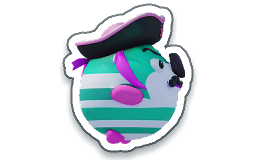
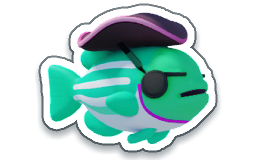
V1.1.3: a brand-new Pirate Fish, on bones
- The round ball is replaced by a real fish with the same pirate details (owner's pick of 3
  generated candidates), rigged with its tricorn rigid on the head
- New Anomaly / Shiny textures (the old hues) and 4 stickers, uploaded after the owner's look;
  rig uploaded as the group; theme.ts FISH_ICONS and variant-spec.json updated
- Fish asset note: sticker sheet camera, tall fish scaling, staging a model swap

diff --git a/src/client/ui/theme.ts b/src/client/ui/theme.ts
@@ -157,10 +157,10 @@ export const FISH_ICONS: Record<FishType, Record<FishVariant, string>> = {
 		Shiny: "rbxassetid://109331093351123",
 	},
 	PirateFish: {
-		Normal: "rbxassetid://140042928133697",
-		Anomaly: "rbxassetid://110288096561899",
-		Ghost: "rbxassetid://134728004078355",
-		Shiny: "rbxassetid://107412512620557",
+		Normal: "rbxassetid://104113182127697",
+		Anomaly: "rbxassetid://87343122073363",
+		Ghost: "rbxassetid://89533035670236",
+		Shiny: "rbxassetid://75278429179620",
 	},
 	ImperialDiscus: {
 		Normal: "rbxassetid://139654199951383",

diff --git a/src/shared/version.ts b/src/shared/version.ts
@@ -1,5 +1,5 @@
 /** The game's patch, the top one of RELEASE_NOTES.md: bump it with every new patch (CLAUDE.md §0b). */
-export const GAME_VERSION = "1.1.2";
+export const GAME_VERSION = "1.1.3";
 
 /** Shown in a corner of the screen (App): "V1.0.0". */
 export function getVersionLabel(): string {

diff --git a/ROADMAP_V1.1.md b/ROADMAP_V1.1.md
@@ -3,7 +3,7 @@
 > The animation revamp: every fish, companion, event guest and NPC moves through a **skeleton made in Blender**
 > instead of the EditableMesh deformation of V1. It starts **once V1 is complete** (the owner's calibration with real players done). Tick the
 > boxes as tasks ship, and move what a step ships into `PROJECT_CONTEXT.md` / `RELEASE_NOTES.md` as usual.
-> Last updated: 2026-11-06 (A1–A4 done; A5.1–A5.4: batches 1–2 on bones, V1.1.2; A5.4b: a new Pirate Fish).
+> Last updated: 2026-11-06 (A1–A4 done; A5.1–A5.4b: batches 1–2 on bones and a new Pirate Fish, V1.1.3; next A5.5).
 
 **V1.1 in one line**: Blender joins the toolchain (Windows and Mac) **as an MCP server**, like Roblox Studio and
 FigCraft, so the agent drives it itself; a script rigs every model by itself, the game
@@ -183,26 +183,22 @@ blender-pipeline.
       whiskers (design/rigs/<Fish>.json; checked at 3× the bend, no tearing).
 - [x] **A5.4 — Batch 2 ship** (2026-11-06): Silver Angelfish, Imperial Discus, French Fish, Catfish (4 uploads, all
       Approved), swapped and playtested; **V1.1.2**.
-- [ ] **A5.4b — A new Pirate Fish** (2026-11-06: owner picked candidate A of 3 (generate_mesh, owner's account: A
-      80403505636985 kept, B 139716735464675 and C 88927581992980 dropped, archivable); built at 5.4 studs long in
-      `ServerStorage._V11Staging.PirateFish_New` (untagged: the live template keeps the old look until the swap, its old
-      variant textures don't fit the new UVs); rigged (`design/rigs/PirateFish.json`: fin_top false, rigid_top for the
-      tricorn); Anomaly / Shiny recoloured with the old angles (tools/textures/out, not uploaded); previews
-      `pirate-fish-new-swim.gif`, `pirate-fish-new-variants.png`. **Next**: owner's go, stickers, uploads, swap) (owner, 2026-11-06: never liked the old model, its swim looked odd): a 100 % new
-      model, then straight onto bones. Pirates are a risky theme (CLAUDE.md §7): written brief approved by the owner
-      first, nothing generated before. Then the species recipe (agent note content-recipes): ≤ 3 generate_mesh
-      candidates side by side → owner pick → template (same `PirateFish` name, FishType, Size class) → Anomaly / Shiny
-      textures and 4 sticker icons (uploaded once, after a moderator's look) → rig → upload → swap; **V1.1.x**.
+- [x] **A5.4b — A new Pirate Fish** (2026-11-06, **V1.1.3**): owner picked candidate A of 3 (same details, a real
+      fish body instead of a ball); 5.4 studs long; rig `design/rigs/PirateFish.json` (fin_top false, the tricorn rigid);
+      Anomaly / Shiny recoloured with the old hues; 4 stickers; uploads: 6 images (owner's account) + the rig (group),
+      all after the owner's look. Old assets the owner may archive: ball meshes 111915158254959 / 78117520516696,
+      texture 76837327495535, variants 106089869843984 / 75123395235665, stickers 140042928133697 / 110288096561899 /
+      134728004078355 / 107412512620557; dropped candidates B 139716735464675 and C 88927581992980.
 - [ ] **A5.5 — Batch 3 prep + ship** (Atlantis and Mariana Trench, 3 fish): Blue Tang, Baby Sunfish (tall round body:
-      check the joints), Lanternfish (its lure: kept on the head bone, never animated). **V1.1.3**.
+      check the joints), Lanternfish (its lure: kept on the head bone, never animated). **V1.1.4**.
 - [ ] **A5.6 — Rig extensions** (code only, no species shipped): `rig_fish.py` settings for more spine bones (Dragonfish
       6, Mini Leviathan 8+), extra bone chains (the Bunny Shark's ears, a soft follow in FishRigController), the Mini
       Leviathan's 30° template pitch baked in Blender; FishRigController drives any number of spine bones by name.
 - [ ] **A5.7 — Batch 4 prep** (Volcanic Temple to Cosmic Sanctuary): Lionfish (spines stay soft and rounded),
       Dragonfish, Husky Dogfish (~8.4k), Bunny Shark (~8.3k), Mini Leviathan. Sheet `v1.1-batch4.gif`.
-- [ ] **A5.8 — Batch 4 ship**: **V1.1.4**.
+- [ ] **A5.8 — Batch 4 ship**: **V1.1.5**.
 - [ ] **A5.9 — Special and event fish**: Sugar, the Alien Fish (UFO night), the Abyss Lanternfish villain and the
-      K-pop idol (its dance: bone moves on the beat). FishRigController then also tracks `EventFish`. **V1.1.5**.
+      K-pop idol (its dance: bone moves on the beat). FishRigController then also tracks `EventFish`. **V1.1.6**.
 
 ### A6 — Behaviour animations (M)
 

diff --git a/PROJECT_CONTEXT.md b/PROJECT_CONTEXT.md
@@ -4,7 +4,7 @@
 > whenever you add / rename / remove a file, a service, a remote, a PlayerData field, a tag or a game system.**
 > It describes the game **as it is now**: the history of each change goes in `RELEASE_NOTES.md`, the numbers in
 > `BALANCE.md`; don't copy them here.
-> Last updated: 2026-11-06 (V1.1.2: 10 fish templates swim with Blender bones, FishRigController; the others still EditableMesh).
+> Last updated: 2026-11-06 (V1.1.3: a new Pirate Fish; 11 fish templates swim with Blender bones, the others still EditableMesh).
 
 **The game.** An incremental aquarium game on Roblox. Each player owns one of 6 aquariums placed around a
 beach lobby. They walk up to the glass to enter a 2.5D "focus" view. In that view they buy eggs, which hatch
@@ -640,7 +640,7 @@ ProjectQuarium/
   it, same Size / CFrame / SurfaceAppearance / WeldConstraint to `Body` as the static mesh it replaced. `ScaleTo`
   scales the bones too; a change of `Size` alone (beat puff) leaves them, fine for a short puff. Converted so far:
   GoldenGuppy, BlueNeon, ZebraDanio, RedTetra, Clownfish, FlameGourami, SilverAngelfish, ImperialDiscus, FrenchFish,
-  Catfish (rig settings per species in design/rigs/<Fish>.json; ids in design/meshes/manifest.json:
+  Catfish, PirateFish (a new model since V1.1.3, its tricorn rigid on the head) (rig settings per species in design/rigs/<Fish>.json; ids in design/meshes/manifest.json:
   `rigModelId`, `rigMeshId`, `staticMeshId`).
 - **`ServerStorage.Assets`**:
   - `Fish/` (tag `FishTemplate`, attr `FishType`): the 18 species + `FrenchFish`, `AlienFish` and `Sugar` (no

diff --git a/docs/agent-notes/fish-asset-pipeline.md b/docs/agent-notes/fish-asset-pipeline.md
@@ -70,3 +70,12 @@ The exported OBJ files stay as the source (design/meshes, manifest.json: templat
   two grants (asset-permissions-api, same body as tools/group-mesh-upload.js) instead of uploading again. Sugar's sugar
   cube coin (generate_mesh, "a single pastel pink sugar cube ... a small white heart shape on its front face") showed the
   heart on mesh-local +Z: the template's Mesh is turned 180° about Y so it faces the glass.
+- **2026-11-06 (V1.1.3, the new Pirate Fish)**: a sticker sheet through `screen_capture` with `camera_position` keeps
+  Studio's 70° camera: set `workspace.CurrentCamera` yourself (Scriptable, FieldOfView 20, CFrame.lookAt) and capture
+  **without** camera arguments, then put the camera back (FieldOfView 70, CameraType Fixed). A tall fish (hat) at
+  10 studs long overlaps the next row: scale each by `4.5 / GetExtentsSize().Y` instead. Variant textures reach Studio
+  without an upload through a scratchpad server on **127.0.0.1:34999** (the only address in the MCP HTTP allow list)
+  serving base64 RGBA 512² for `HttpService:GetAsync`. `upload_image` reads from any local port (34998 worked). A
+  model swap whose old variant textures no longer fit (new UVs) waits in an **untagged** staging folder
+  (`ServerStorage._V11Staging`) until the variants, stickers and rig are ready, so a publish meanwhile breaks nothing.
+

diff --git a/RELEASE_NOTES.md b/RELEASE_NOTES.md
@@ -11,6 +11,17 @@ Every change to the game, patch by patch. The newest version is at the top.
 
 ---
 
+## V1.1.3 — 2026-11-06
+
+**New**
+- **A brand-new Pirate Fish**: the round ball is gone. The little captain is now a real fish, striped like a sailor
+  shirt, with its tricorn hat, its eye patch and its red scarf, and it swims with bones like the others (its hat stays
+  on its head). Its Anomaly, Ghost and Shiny looks and its stickers in the Fish Index, the Ocean and the hatch reveal
+  are new too. Same rarity, same rubies, same place in the Pirate Wreck: the Pirate Fish players own simply get the new
+  look.
+
+---
+
 ## V1.1.2 — 2026-11-06
 
 **New**
